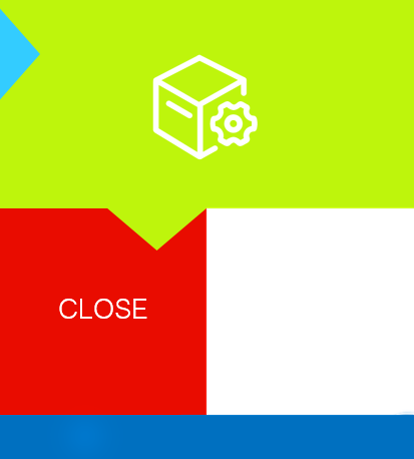
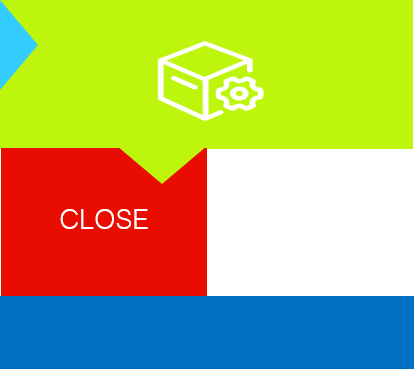
update jo details view

diff --git a/Nebula/Content/common.css b/Nebula/Content/common.css
@@ -478,6 +478,7 @@ html,body{
 
 .jo-operation{
     position: fixed;
+    bottom: 0;
     height: 100%;
     width: 80%;
     min-width: 800px;
@@ -500,28 +501,28 @@ html,body{
 .jo-blue-tranparent, .jo-yellow-tranparent{
     position: absolute;
     cursor: pointer;
-    bottom: 4%;
+    bottom: 10%;
     height: 30%;
     width: 80%;
-    margin-left: 5%;
+    margin-left: 10%;
 }
 
 .jo-green-tranparent{
     position: absolute;
     cursor: pointer;
-    bottom: 4%;
+    bottom: 10%;
     height: 20%;
     width: 80%;
-    margin-left: 5%;
+    margin-left: 10%;
 }
 
 .jo-darkblue-down-tranparent{
     position: absolute;
     cursor: pointer;
-    bottom: 4%;
+    bottom: 10%;
     height: 15%;
     width: 35%;
-    margin-left: 5%;
+    margin-left: 8%;
 }
 
 .jo-darkblue-up-tranparent{
@@ -530,7 +531,7 @@ html,body{
     bottom: 25%;
     height: 15%;
     width: 80%;
-    margin-left: 5%;
+    margin-left: 10%;
 }
 
 .jo-blue{
